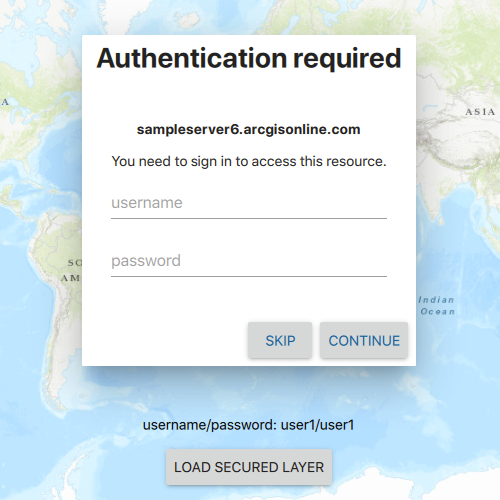
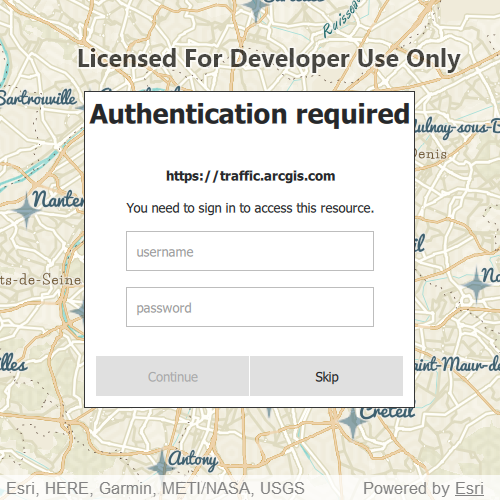
Update c++ TokenAuthentication sample README

diff --git a/ArcGISRuntimeSDKQt_CppSamples/CloudAndPortal/TokenAuthentication/README.md b/ArcGISRuntimeSDKQt_CppSamples/CloudAndPortal/TokenAuthentication/README.md
@@ -10,18 +10,29 @@ Allows you to access a secure service with the convenience and security of ArcGI
 
 ## How to use the sample
 
-Once you launch the app, you will be challenged for an ArcGIS Online login to view the protected map service. Enter a user name and password for this resources. In this case, the username is `user1` and the password is also `user1`.
+Once you launch the app, you will be challenged for an ArcGIS Online login to view the protected map service. Enter a user name and password for an ArcGIS Online named user account (such as your ArcGIS for Developers account). If you authenticate successfully, the protected map service will display in the map.
 
 ## How it works
 
-1. Create a `ArcGISMapImageLayer` passing in the URL to a map service that is secured with token-based authentication.
-2. Append the map image layer to the operational layers to display the map.
+1. Create a `Portal`.
+2. Create a `PortalItem` for the protected web map using the `Portal` and Item ID of the protected map service.
+3. Create a `Map` using the `PortalItem`.
+4. Set the map to display in the `MapView`.
 
 ## Relevant API
 
 * Map
 * MapView
-* ArcGISMapImageLayer
+* Portal
+* PortalItem
+
+## About the data
+
+The [Traffic web map](https://arcgisruntime.maps.arcgis.com/home/item.html?id=e5039444ef3c48b8a8fdc9227f9be7c1) uses public layers as well as the world traffic (premium content) layer. The world traffic service presents historical and near real-time traffic information for different regions in the world. The data is updated every 5 minutes. This map service requires an ArcGIS Online organizational subscription.
+
+## Additional information
+
+Please note: the username and password are case sensitive for token-based authentication. If the user doesn't have permission to access all the content within the portal item, partial or no content will be returned.
 
 ## Tags
 
